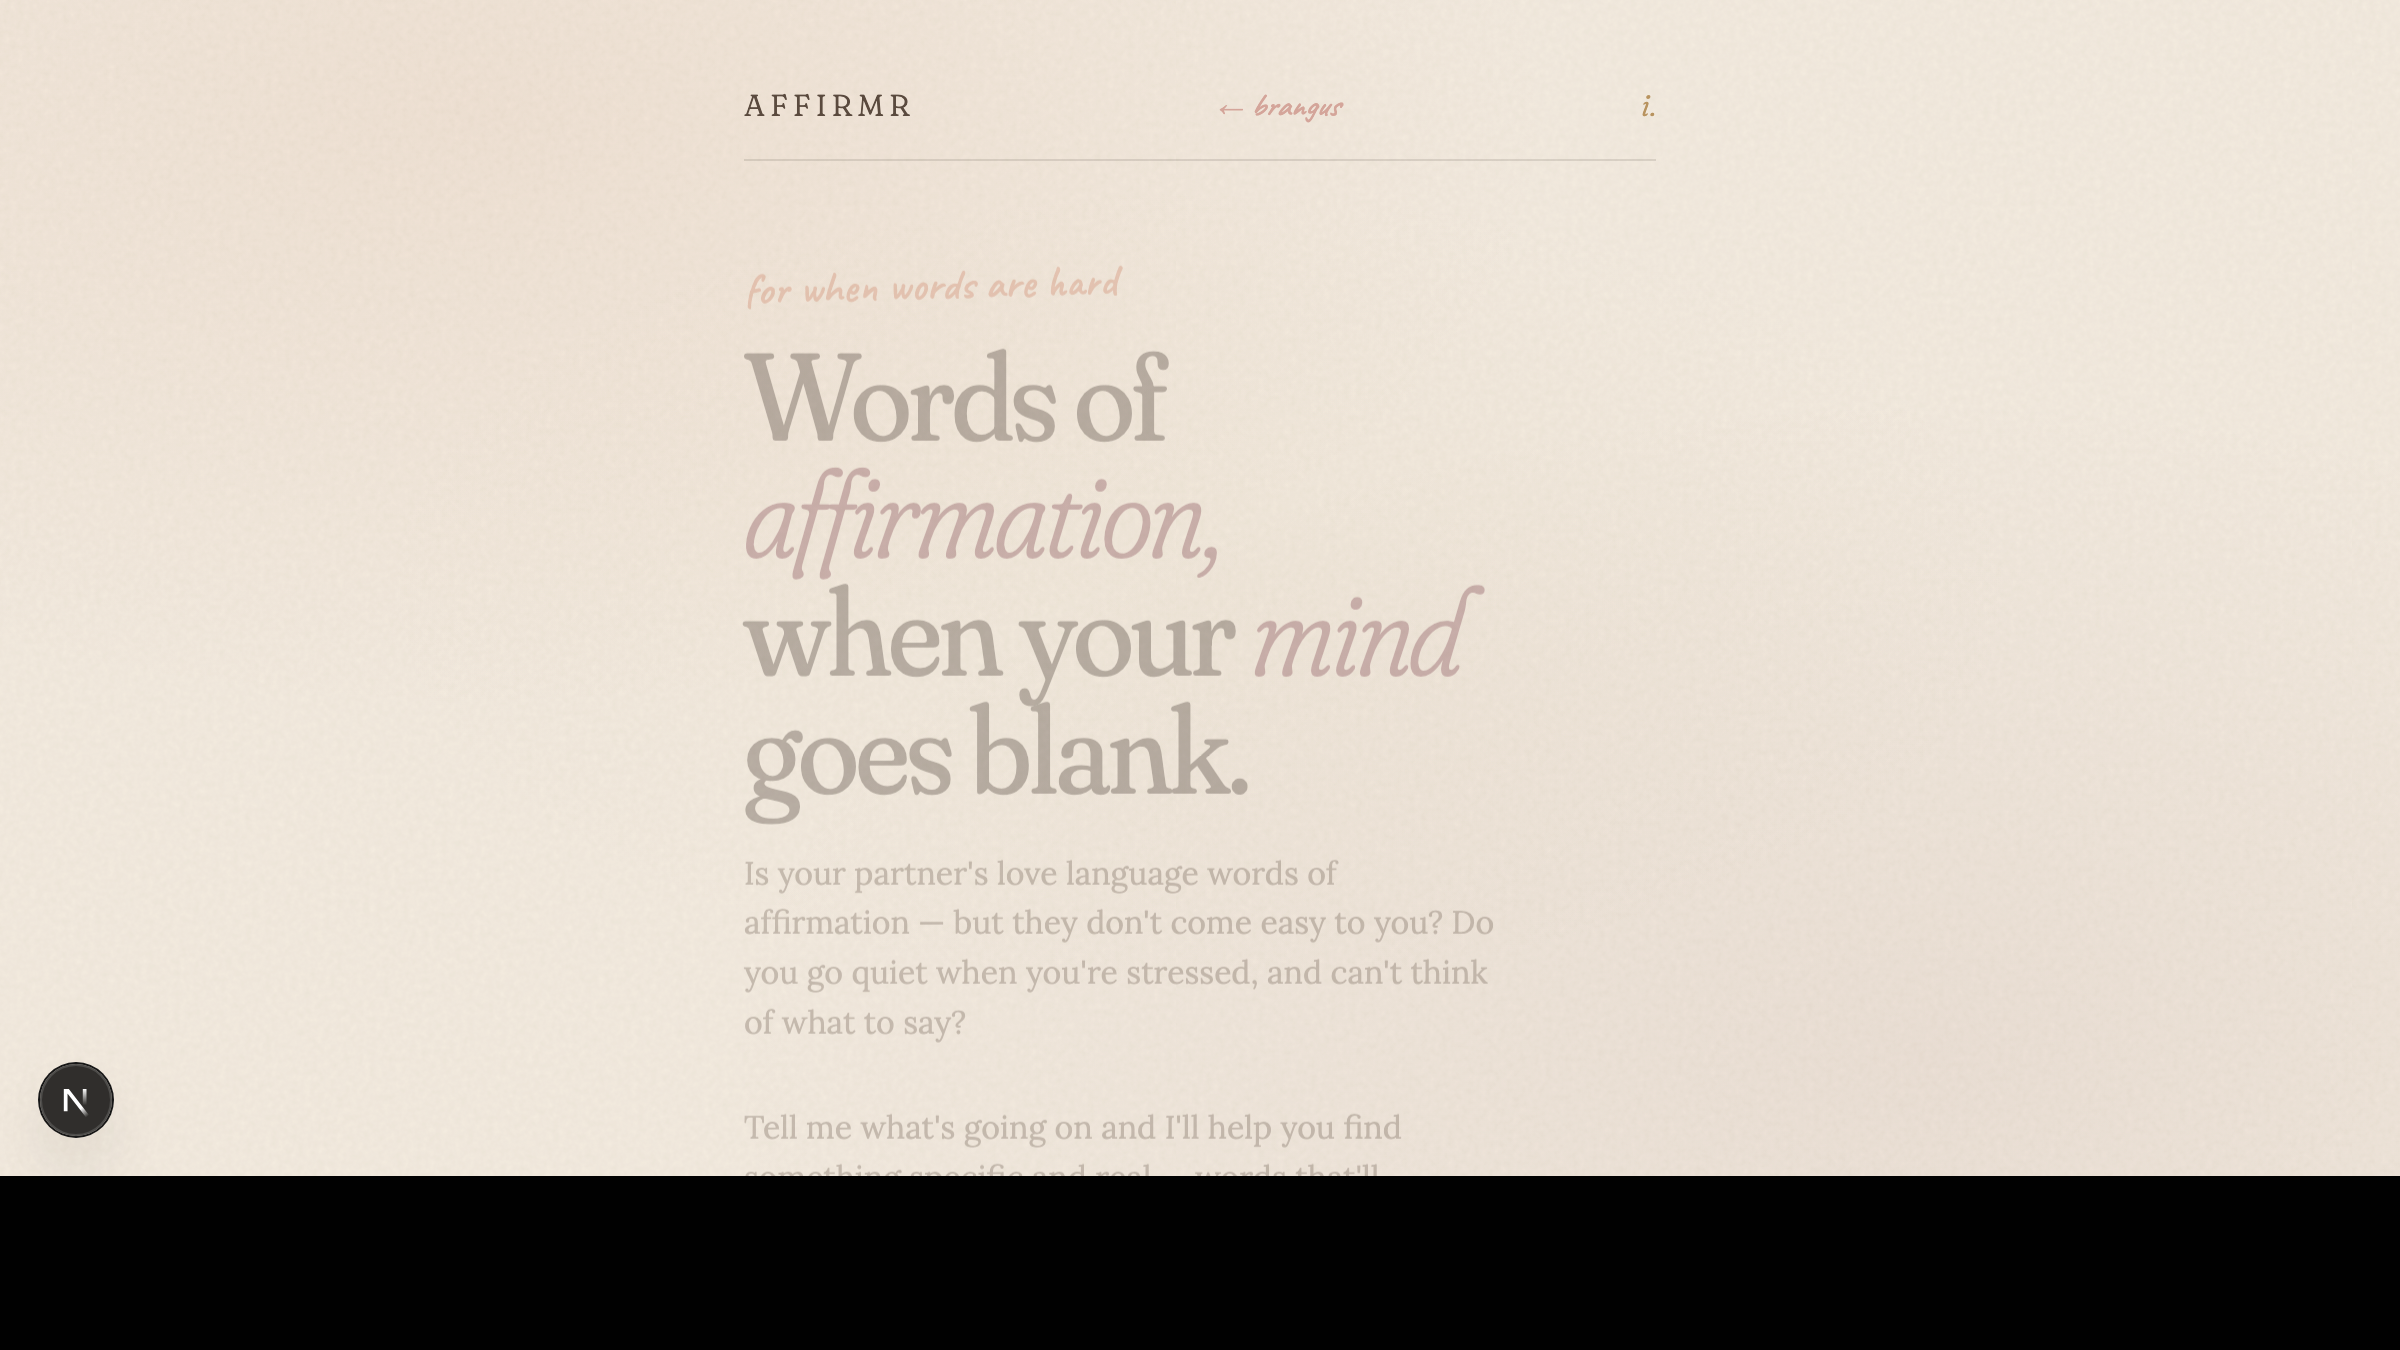
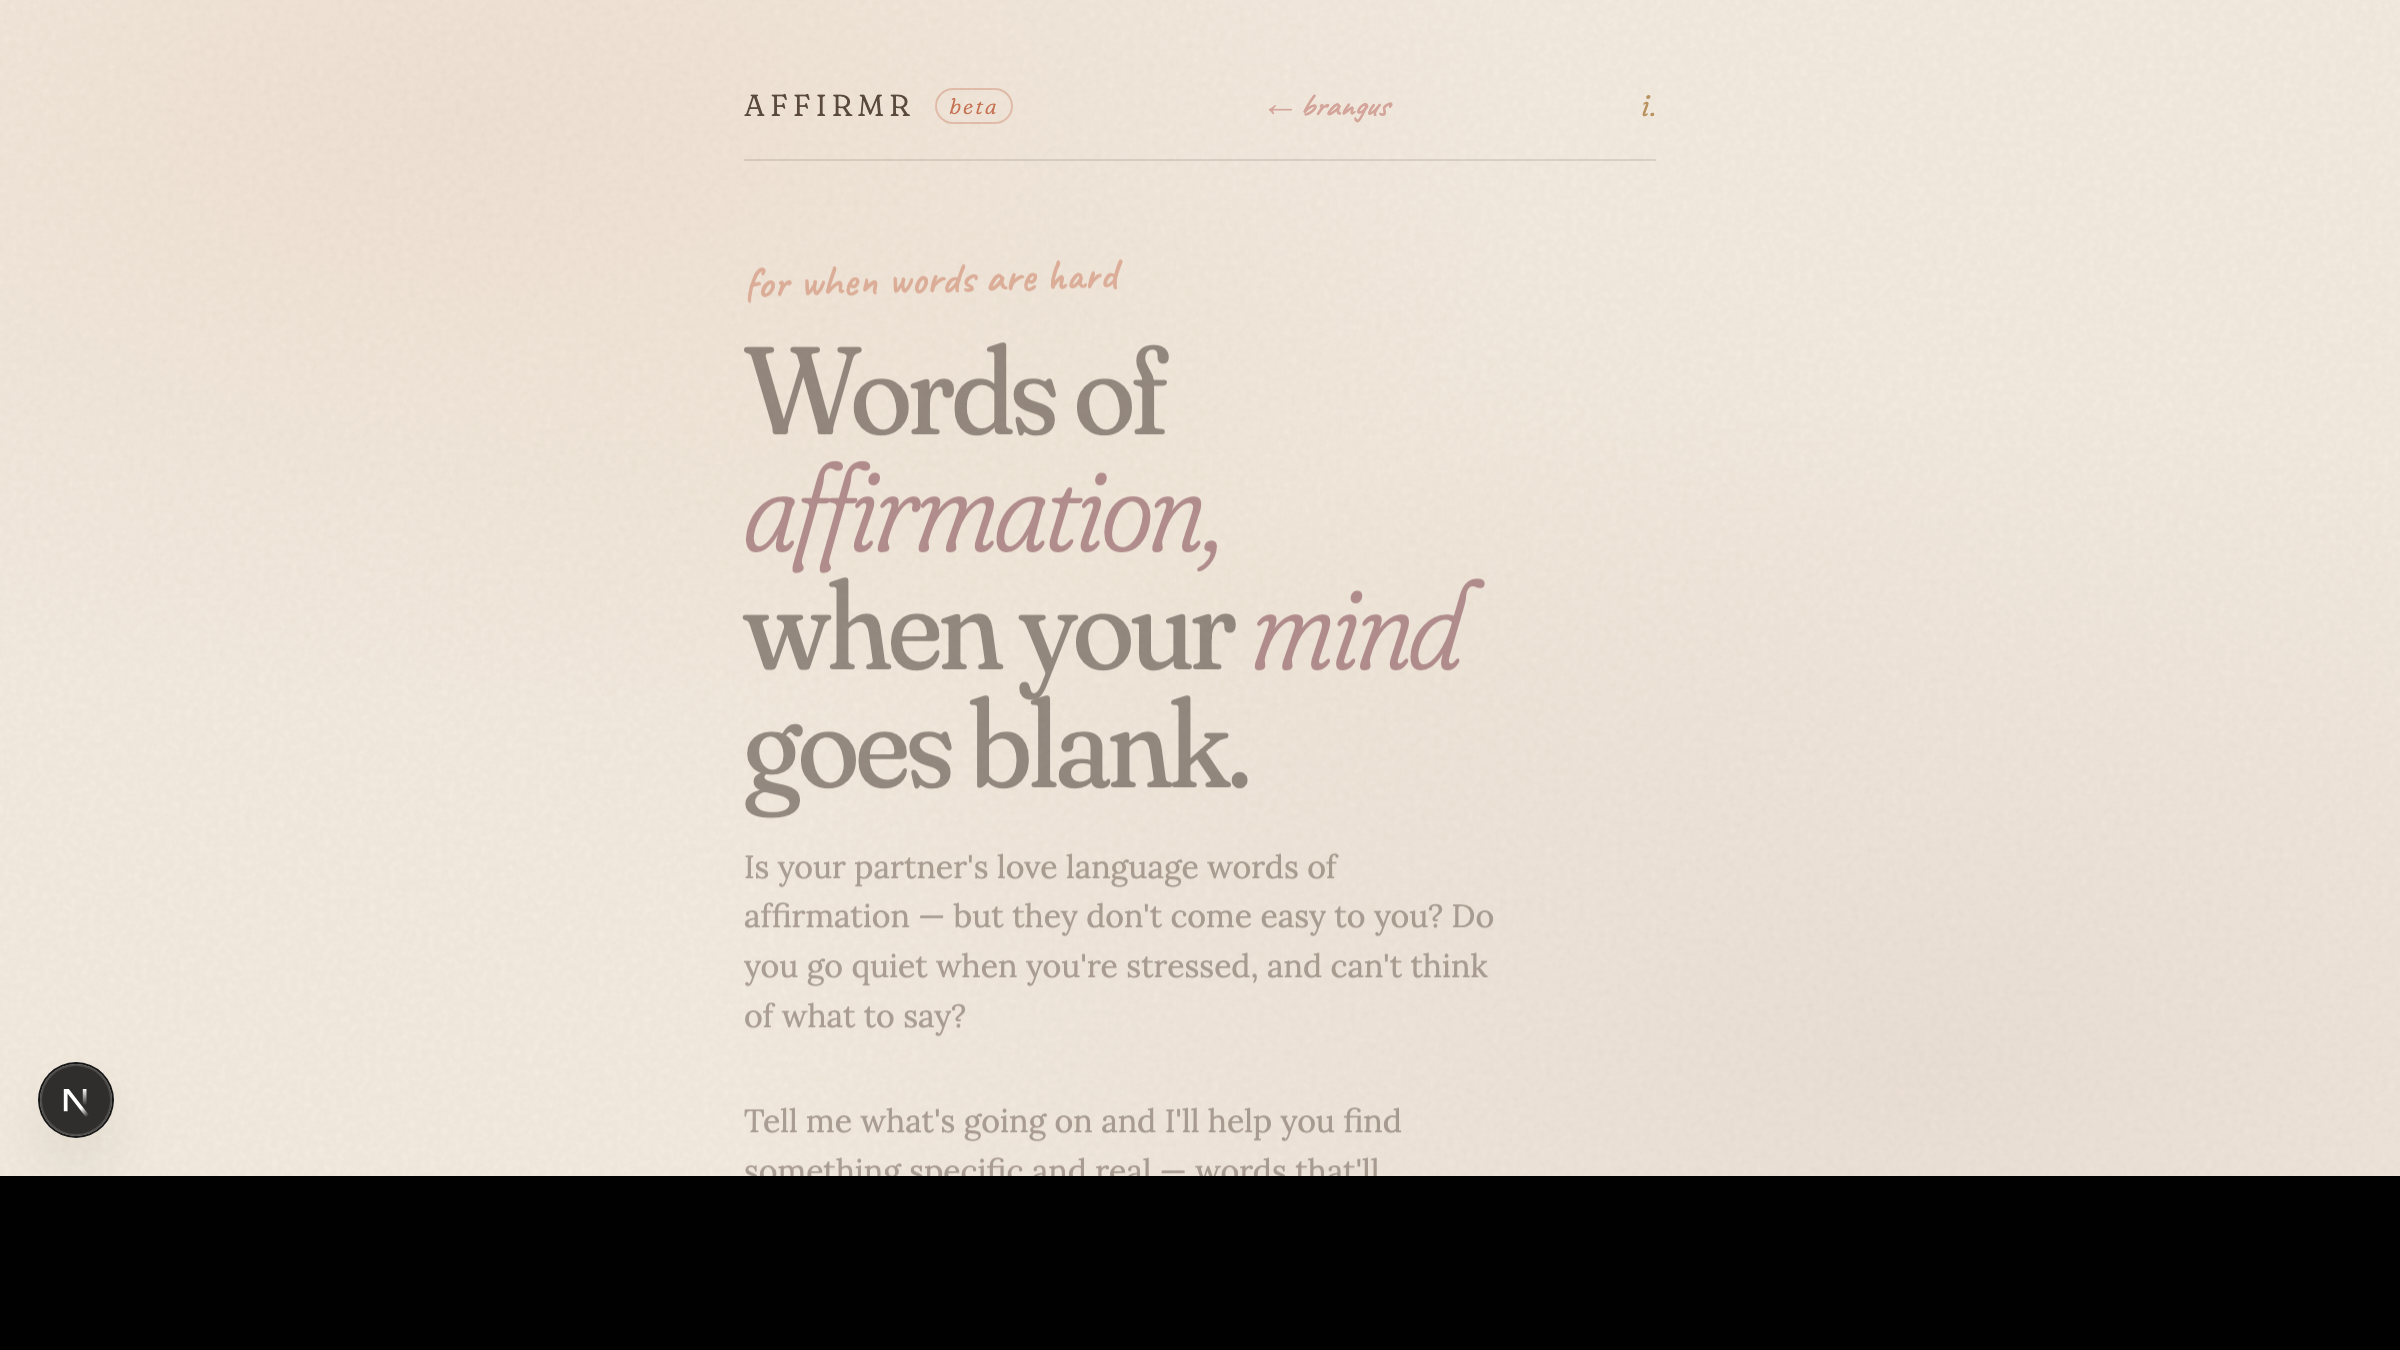
Mark affirmr as beta in both the app masthead and brangus listing
Small terracotta italic pill next to AFFIRMR in the app header; muted
mono-lowercase pill next to the title on /simulations. Refreshed the
preview screenshot to include the badge.

diff --git a/src/app/affirmr/affirmr.css b/src/app/affirmr/affirmr.css
@@ -79,6 +79,23 @@
   font-variation-settings: "opsz" 14, "SOFT" 100;
 }
 
+.masthead__beta {
+  font-family: var(--font-fraunces), serif;
+  font-style: italic;
+  font-weight: 300;
+  font-size: 11px;
+  letter-spacing: 0.1em;
+  text-transform: lowercase;
+  color: var(--terracotta);
+  margin-left: 4px;
+  font-variation-settings: "opsz" 14;
+  padding: 1px 6px;
+  border: 1px solid rgba(198, 114, 82, 0.35);
+  border-radius: 100px;
+  position: relative;
+  top: -1px;
+}
+
 .masthead__home {
   font-family: var(--font-caveat), cursive;
   font-size: 16px;

diff --git a/src/app/simulations/page.tsx b/src/app/simulations/page.tsx
@@ -6,6 +6,7 @@ type App = {
   href: string;
   video?: string;
   image?: string;
+  beta?: boolean;
 };
 
 const apps: App[] = [
@@ -15,6 +16,7 @@ const apps: App[] = [
       "For when your partner's love language is words of affirmation — and you go quiet under stress. Describe the moment, get specific, genuine things to say.",
     href: "/affirmr",
     image: "/affirmr/preview.png",
+    beta: true,
   },
   {
     title: "FST Explorer",
@@ -67,7 +69,14 @@ export default function SimulationsPage() {
                 />
               )}
               <div className="p-6">
-                <h3 className="text-xl font-bold mb-2 group-hover:text-white/80 transition-colors">{sim.title}</h3>
+                <h3 className="text-xl font-bold mb-2 group-hover:text-white/80 transition-colors flex items-center gap-2">
+                  {sim.title}
+                  {sim.beta && (
+                    <span className="text-[10px] uppercase tracking-widest font-mono font-normal text-white/40 border border-white/20 rounded-full px-2 py-0.5">
+                      beta
+                    </span>
+                  )}
+                </h3>
                 <p className="text-white/50 font-mono text-sm leading-relaxed">{sim.description}</p>
                 <span className="inline-block mt-4 font-mono text-xs text-white/30 group-hover:text-white/50 transition-colors">
                   Launch &rarr;

diff --git a/src/app/affirmr/page.tsx b/src/app/affirmr/page.tsx
@@ -85,7 +85,9 @@ export default function AffirmrPage() {
   return (
     <div className="affirmr-app">
       <header className="masthead">
-        <span className="masthead__title">affirmr</span>
+        <span className="masthead__title">
+          affirmr <span className="masthead__beta">beta</span>
+        </span>
         <Link href="/simulations" className="masthead__home">
           &larr; brangus
         </Link>